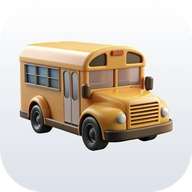
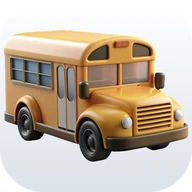
Add files via upload

diff --git a/index.html b/index.html
@@ -15,7 +15,7 @@
 @font-face{font-family:'Bricolage Grotesque';font-style:normal;font-weight:200 800;font-display:block;src:url(f-bricolage.woff2) format('woff2')}</style>
 <script>
 /* abre direto na versão mais nova guardada no aparelho (o iPhone costuma servir a página antiga do cache) */
-(function(){var V='13.365';
+(function(){var V='13.366';
   function c(a,b){a=a.split('.');b=b.split('.');for(var i=0;i<3;i++){var x=+a[i]||0,y=+b[i]||0;if(x!==y)return x>y?1:-1}return 0}
   try{var v=localStorage.getItem('vencimentos.htmlv'),h=localStorage.getItem('vencimentos.html');
     if(v&&h&&c(v,V)>0&&sessionStorage.getItem('vencimentos.rw')!==v&&h.indexOf("const VERSION='"+v+"'")>0){sessionStorage.setItem('vencimentos.rw',v);document.documentElement.style.visibility='hidden';setTimeout(function(){document.open();document.write(h);document.close()},0)}
@@ -368,7 +368,7 @@ textarea.fld{height:76px;padding:12px 14px;resize:none;line-height:1.4}
 @media(prefers-reduced-motion:reduce){.pit.flash{animation:none}.pit .pcp.done{transform:none}}
 #dt .scrim{background:rgba(2,3,6,.58)!important;transition:opacity .28s!important}
 #dt .panel{box-shadow:0 -18px 50px rgba(0,0,0,.45)}
-#dt .panel.fit{touch-action:none;overflow:hidden} /* v13.365: janela curta (sem rolagem) não deixa o iPhone disputar o gesto com a página: o arrastar para fechar fica fluido */
+#dt .panel.fit{touch-action:none;overflow:hidden} /* v13.366: janela curta (sem rolagem) não deixa o iPhone disputar o gesto com a página: o arrastar para fechar fica fluido */
 .row{-webkit-touch-callout:none;-webkit-user-select:none;user-select:none}
 .row.lpon{background:linear-gradient(90deg,rgba(var(--ar),.14),rgba(var(--ar),.03));transform:scale(.988);transition:transform .2s,background .2s}
 #lpb{position:fixed;inset:0;z-index:120;background:rgba(2,3,6,.28)}
@@ -401,6 +401,9 @@ textarea.fld{height:76px;padding:12px 14px;resize:none;line-height:1.4}
 .pit .pm b,.pit .pm span{white-space:normal;overflow:visible;text-overflow:clip;overflow-wrap:anywhere}
 .pit .pm b{font-size:15.5px;line-height:1.25}.pit .pm span{margin-top:2px;line-height:1.3}
 .pit .pcp,.pit .prm{align-self:center}
+.pit .ptag{display:block;font:700 10.5px var(--fb);letter-spacing:.12em;text-transform:uppercase;color:#32bcad;font-style:normal;margin-bottom:3px}
+#dt .dh{gap:16px}#dt .dh .pv,#dt .dh .ico{width:64px;height:64px;border-radius:22px;flex:none;margin:0} /* v13.366: ícone da conta no tamanho cheio (antes 40 px) */
+#dt .dh .ico svg{width:30px;height:30px}
 /* panorama e ajustes */
 .card{background:var(--card);border:1px solid var(--line);border-radius:24px;padding:18px;margin-top:16px}
 .card h3{margin:0 0 4px;font:700 16px var(--fd)}
@@ -1134,7 +1137,7 @@ body.sfull .app,body.sfull .fab,body.sfull .tabs{opacity:0;pointer-events:none}
 <script>
 (function(){
 'use strict';
-const VERSION='13.365';
+const VERSION='13.366';
 const KEY='vencimentos.v1';
 const $=(s,r=document)=>r.querySelector(s), $$=(s,r=document)=>[...r.querySelectorAll(s)];
 const esc=s=>String(s==null?'':s).replace(/[&<>"']/g,c=>({'&':'&amp;','<':'&lt;','>':'&gt;','"':'&quot;',"'":'&#39;'}[c]));
@@ -1255,7 +1258,7 @@ const LOGOS={"vanescolar":"i-vanescolar.webp","trivago":"i-trivago.webp","cvc":"
 /* IV: só vira algo depois de "Limpar memória" (Ajustes): força baixar tudo de novo, como na 1ª vez */
 const IV=(()=>{try{return sessionStorage.getItem('imgv')||''}catch(e){return ''}})();
 const imgU=f=>IV?f+'?v='+IV:f;
-const IMGCACHE='cartoes-20';
+const IMGCACHE='cartoes-21';
 /* v13.332: estilo dos ícones. Claro = i-<id>-c.webp (PADRÃO desde a v13.351). Escuro = os arquivos i-<id>.webp, só para os que têm versão clara (lista LOGOC; os demais continuam iguais nos dois estilos). Escolha em Ajustes, guardada em sobrou.ic ('c' claro, 'd' escuro; sem valor = claro) */
 const LOGOC={"i-vanescolar.webp":1,"i-movida.webp":1,"i-smiles.webp":1,"i-gol.webp":1,"i-hotelscom.webp":1,"i-trivago.webp":1,"i-cvc.webp":1,"i-bradescoseg.webp":1,"i-bradescosaude.webp":1,"i-amil.webp":1,"i-amildental.webp":1,"i-azulaerea.webp":1,"i-sabesp.webp":1,"i-comgas.webp":1,"i-buser.webp":1,"i-blablacar.webp":1,"i-enel.webp":1,"i-github.webp":1,"i-futfanatics.webp":1,"i-livelo.webp":1,"i-bb.webp":1,"i-gmail.webp":1,"i-amazon.webp":1,"i-youtube.webp":1,"i-neon.webp":1,"i-portoseguro.webp":1,"i-whatsapp.webp":1,"i-prime.webp":1,"i-inter.webp":1,"i-instagram.webp":1,"i-netshoes.webp":1,"i-facebook.webp":1,"i-shopee.webp":1,"i-claude.webp":1,"i-ifood.webp":1,"i-btg.webp":1,"i-vivo.webp":1,"i-yamaha.webp":1,"i-fgc.webp":1,"i-agora.webp":1,"i-centauro.webp":1,"i-pinterest.webp":1,"i-premiere.webp":1,"i-oi.webp":1,"i-sky.webp":1,"i-quintoandar.webp":1,"i-picpay.webp":1,"i-nubank.webp":1,"i-mercadopago.webp":1,"i-bv.webp":1,"i-pan.webp":1,"i-sicoob.webp":1};
 const ICLIGHT=()=>{try{return localStorage.getItem('sobrou.ic')!=='d'}catch(e){return true}};
@@ -3400,7 +3403,18 @@ function putExtra(b){
 /* v13.356: COMO PAGAR (Pix, código de barras, outro) + tela de detalhes com botão Copiar */
 const PGT={pix:{l:'Pix',ic:"<svg viewBox=\"0 0 24 24\"><path d=\"M5.283 18.36a3.505 3.505 0 0 0 2.493-1.032l3.6-3.6a.684.684 0 0 1 .946 0l3.613 3.613a3.504 3.504 0 0 0 2.493 1.032h.71l-4.56 4.56a3.647 3.647 0 0 1-5.156 0L4.85 18.36ZM18.428 5.627a3.505 3.505 0 0 0-2.493 1.032l-3.613 3.614a.67.67 0 0 1-.946 0l-3.6-3.6A3.505 3.505 0 0 0 5.283 5.64h-.434l4.573-4.572a3.646 3.646 0 0 1 5.156 0l4.559 4.559ZM1.068 9.422 3.79 6.699h1.492a2.483 2.483 0 0 1 1.744.722l3.6 3.6a1.73 1.73 0 0 0 2.443 0l3.614-3.613a2.482 2.482 0 0 1 1.744-.723h1.767l2.737 2.737a3.646 3.646 0 0 1 0 5.156l-2.736 2.736h-1.768a2.482 2.482 0 0 1-1.744-.722l-3.613-3.613a1.77 1.77 0 0 0-2.444 0l-3.6 3.6a2.483 2.483 0 0 1-1.744.722H3.791l-2.723-2.723a3.646 3.646 0 0 1 0-5.156\"/></svg>",c:'',ph:'Chave Pix (CPF, e-mail, telefone…)',np:'Nome de quem recebe (opcional)',ms:'Chave Pix copiada'},barras:{l:'Código de barras',ic:"<svg viewBox=\"0 0 256 256\"><path d=\"M224,48V208H32V48Z\" opacity=\"0.2\"/><path d=\"M232,48V88a8,8,0,0,1-16,0V56H184a8,8,0,0,1,0-16h40A8,8,0,0,1,232,48ZM72,200H40V168a8,8,0,0,0-16,0v40a8,8,0,0,0,8,8H72a8,8,0,0,0,0-16Zm152-40a8,8,0,0,0-8,8v32H184a8,8,0,0,0,0,16h40a8,8,0,0,0,8-8V168A8,8,0,0,0,224,160ZM32,96a8,8,0,0,0,8-8V56H72a8,8,0,0,0,0-16H32a8,8,0,0,0-8,8V88A8,8,0,0,0,32,96ZM80,80a8,8,0,0,0-8,8v80a8,8,0,0,0,16,0V88A8,8,0,0,0,80,80Zm104,88V88a8,8,0,0,0-16,0v80a8,8,0,0,0,16,0ZM144,80a8,8,0,0,0-8,8v80a8,8,0,0,0,16,0V88A8,8,0,0,0,144,80Zm-32,0a8,8,0,0,0-8,8v80a8,8,0,0,0,16,0V88A8,8,0,0,0,112,80Z\"/></svg>",c:' b',ph:'Cole o código de barras do boleto',np:'Nome (opcional)',ms:'Código de barras copiado'},outro:{l:'Outro',ic:"<svg viewBox=\"0 0 256 256\"><circle cx=\"56\" cy=\"128\" r=\"20\"/><circle cx=\"128\" cy=\"128\" r=\"20\"/><circle cx=\"200\" cy=\"128\" r=\"20\"/></svg>",c:' o',ph:'Dados para pagar (conta, link…)',np:'Nome (opcional)',ms:'Copiado'}};
 let PAYK='pix';
-function payItems(list,withRm){return list.map((x,i)=>{const t=PGT[x.k]||PGT.outro;return '<div class="pit"><div class="pic'+t.c+'">'+t.ic+'</div><div class="pm"><b>'+esc(x.n||t.l)+'</b><span>'+esc(x.v)+'</span></div><button type="button" class="pcp" data-cp="'+i+'">Copiar</button>'+(withRm?'<button type="button" class="prm" data-rm="'+i+'" aria-label="Remover">×</button>':'')+'</div>'}).join('')}
+function cpfOk(d){if(d.length!==11||/^(\d)\1{10}$/.test(d))return false;let a=0,b=0;for(let i=0;i<9;i++){a+=d[i]*(10-i)}a=(a*10)%11%10;if(a!==+d[9])return false;for(let i=0;i<10;i++){b+=d[i]*(11-i)}b=(b*10)%11%10;return b===+d[10]}
+/* v13.366: descobre que tipo de chave Pix é (CPF, CNPJ, e-mail, telefone ou aleatória) para mostrar na tela */
+function pixTipo(v){v=String(v||'').trim();if(!v)return '';const d=v.replace(/\D/g,'');
+  if(v.indexOf('@')>0)return 'E-mail';
+  if(/^[0-9a-f]{8}-[0-9a-f]{4}-[0-9a-f]{4}-[0-9a-f]{4}-[0-9a-f]{12}$/i.test(v))return 'Chave aleatória';
+  if(/^\d{3}\.\d{3}\.\d{3}-\d{2}$/.test(v))return 'CPF';
+  if(/^\d{2}\.\d{3}\.\d{3}\/\d{4}-\d{2}$/.test(v)||(/^\d{14}$/.test(v)))return 'CNPJ';
+  if(/^\+?55/.test(v.replace(/[\s()-]/g,''))&&d.length>=12&&d.length<=13)return 'Telefone';
+  if(/^\(?\d{2}\)?\s?9?\d{4}-?\d{4}$/.test(v))return 'Telefone';
+  if(/^\d{11}$/.test(v))return cpfOk(v)?'CPF':'Telefone';
+  return '';}
+function payItems(list,withRm){return list.map((x,i)=>{const t=PGT[x.k]||PGT.outro;const tp=x.k==='pix'?pixTipo(x.v):'';return '<div class="pit"><div class="pic'+t.c+'">'+t.ic+'</div><div class="pm">'+(x.k==='pix'?'<i class="ptag">Pix'+(tp?' · '+esc(tp):'')+'</i>':'')+'<b>'+esc(x.n||t.l)+'</b><span>'+esc(x.v)+'</span></div><button type="button" class="pcp" data-cp="'+i+'">Copiar</button>'+(withRm?'<button type="button" class="prm" data-rm="'+i+'" aria-label="Remover">×</button>':'')+'</div>'}).join('')}
 function renderPay(){
   const t=PGT[PAYK];$$('#pk button').forEach(b=>b.classList.toggle('on',b.dataset.pk===PAYK));
   $('#pvl').placeholder=t.ph;$('#pnm').placeholder=t.np;
@@ -3519,7 +3533,7 @@ function statsFx(v){
     if(!arr){if(df<-4){y0=null;return}if(df<6)return;arr=true;pn.style.transition='none'}
     dy=Math.max(0,df);pn.style.transform='translateY('+dy+'px)'},{passive:true});
   const solta=()=>{const era=arr,c=arr&&(dy>110||(dy>40&&vy>0.6));y0=null;arr=false;if(!era)return;pn.style.transition='';
-    if(c){closeDet();pn.style.transform=''}else pn.style.transform=''}; /* v13.365: solta o inline junto com o fechar: antes o transform ficava preso e a janela parava no ponto e só pulava depois de 460 ms */
+    if(c){closeDet();pn.style.transform=''}else pn.style.transform=''}; /* v13.366: solta o inline junto com o fechar: antes o transform ficava preso e a janela parava no ponto e só pulava depois de 460 ms */
   d.addEventListener('touchend',solta,{passive:true});d.addEventListener('touchcancel',solta,{passive:true});
 })();
 $('#panel').addEventListener('submit',e=>{

diff --git a/sw.js b/sw.js
@@ -3,7 +3,7 @@
    2) imagens dos cartões (c-*.webp) e dos ícones (i-*.webp) ficam guardadas;
    3) as fontes (f-*.woff2) ficam guardadas.
    Se trocar uma imagem mantendo o mesmo nome, aumente o número em IMG (e IMGCACHE no index.html). */
-const IMG='cartoes-20', APP='app-1', FONT='fontes-2';
+const IMG='cartoes-21', APP='app-1', FONT='fontes-2';
 const INDEX=new URL('index.html',self.registration.scope).href;
 /* se a internet estiver ruim, espera no máximo isto pela rede antes de usar o que está guardado */
 const ESPERA=4000;
